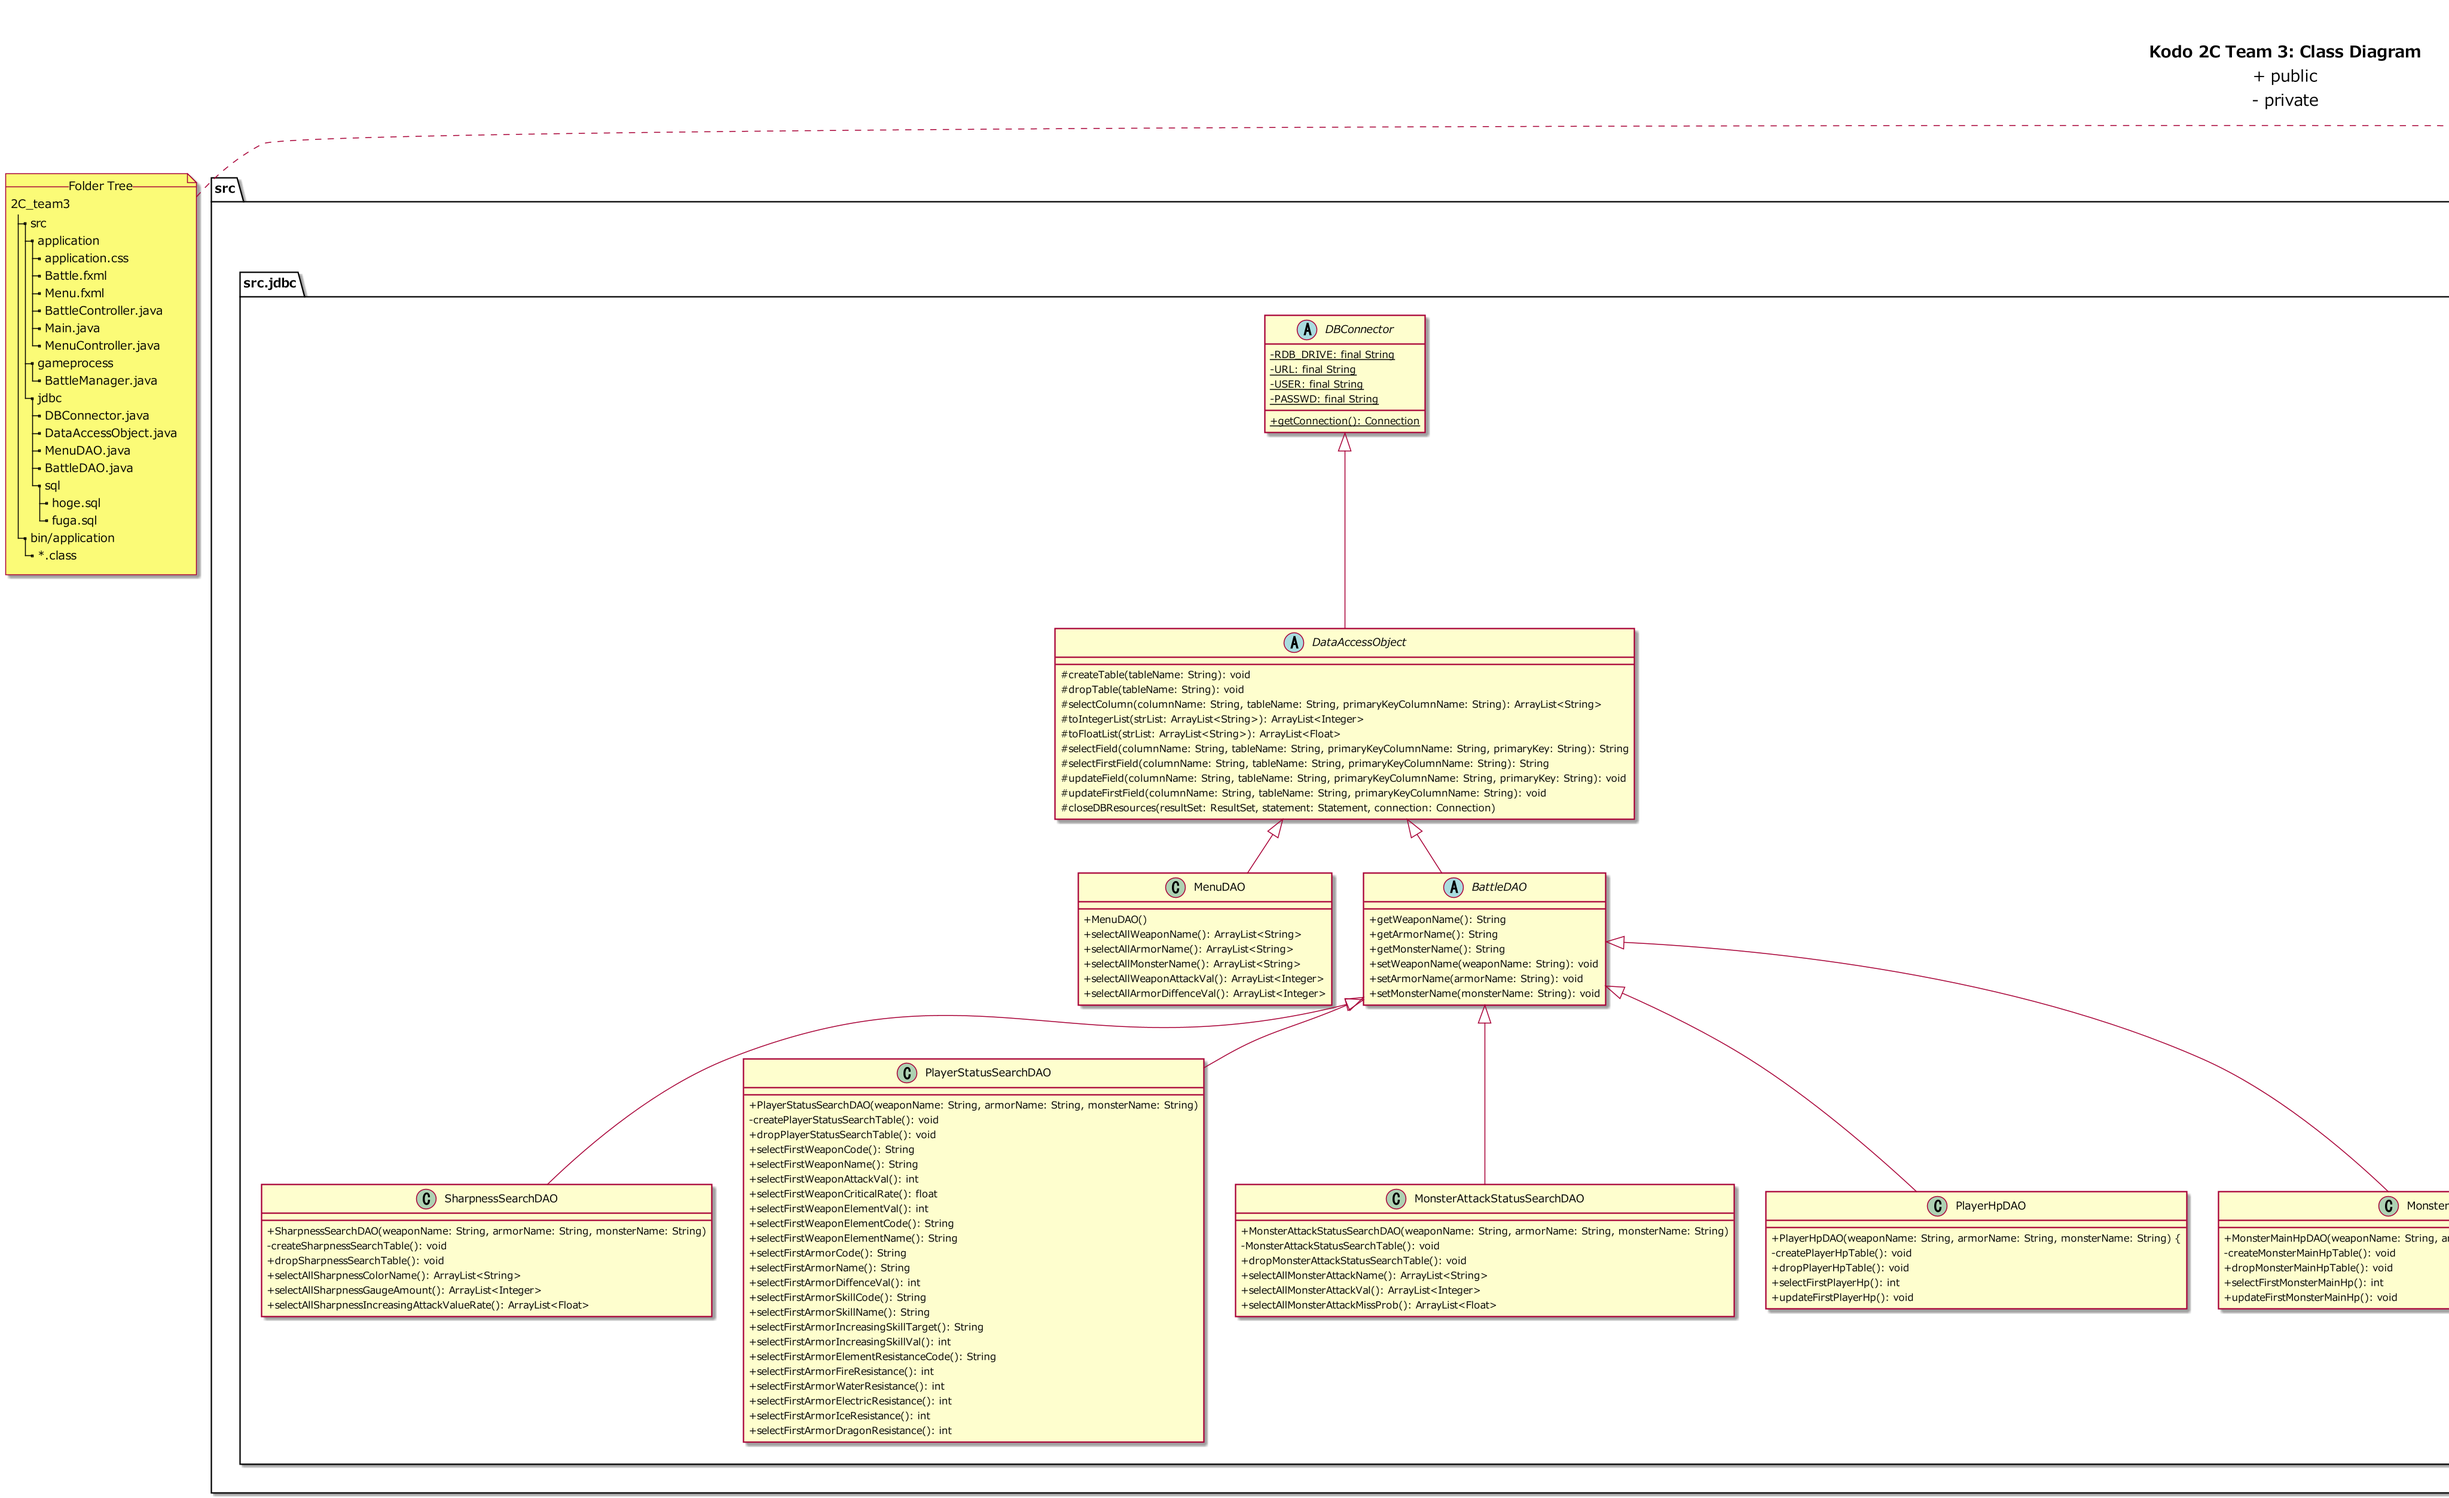
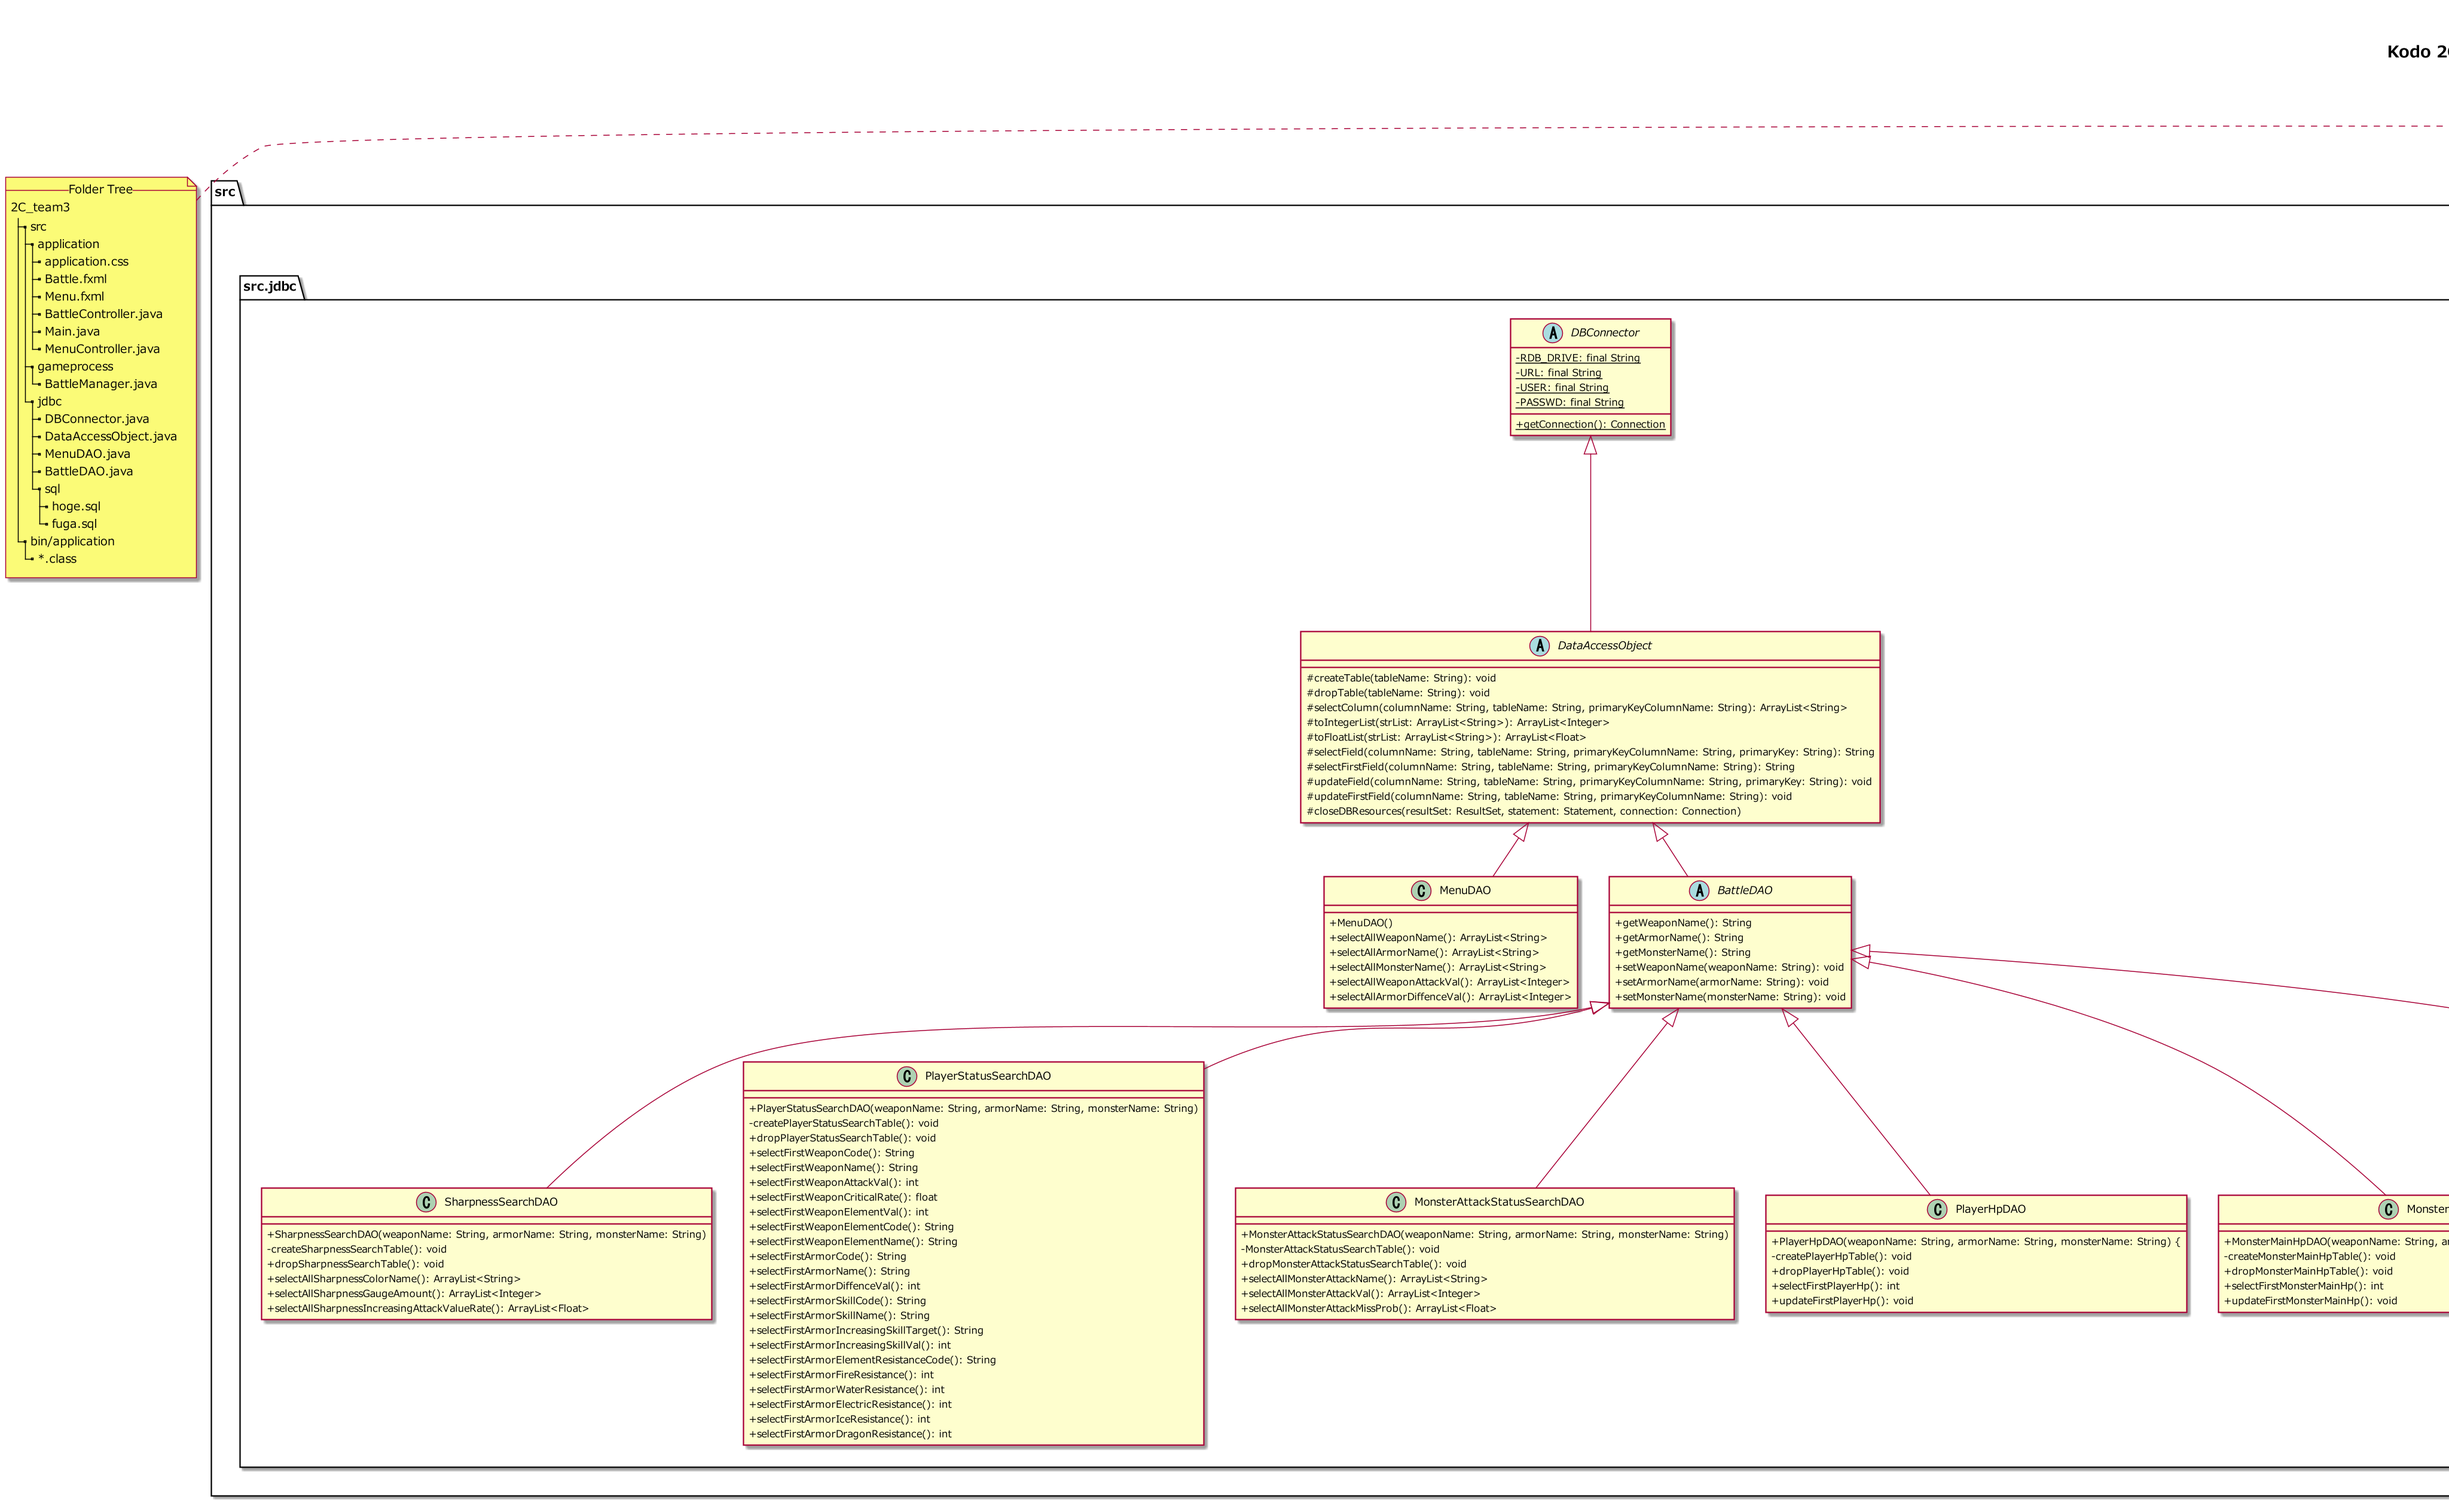
MonsterPartsHpDAOの仮組の完了

diff --git a/MonsterHunter/src/jdbc/MonsterPartsHpDAO.java b/MonsterHunter/src/jdbc/MonsterPartsHpDAO.java
@@ -3,15 +3,124 @@
 * @brief     「モンスター部位体力」テーブルのDAO
 * @note      高度情報演習2C 後半 木村教授担当分 Team3
 * @auther    AL18036 Kataoka Nagi
-* @date      2020-12-28 00:54:39
+* @date      2020-12-28 07:13:32
 * $Version   1.0
 * $Revision  1.0
-* @par       ADD: 新規作成
+* @par       追加：仮組の作成
 * @see       https://www.kenschool.jp/blog/?p=1644
 */
 
 package jdbc;
 
+import java.util.ArrayList;
+
+/**
+ * @class MonsterPartsHpDAO
+ * @brief 「モンスター部位体力」テーブルのDAO
+ */
 public class MonsterPartsHpDAO extends BattleDAO {
 
+  /**
+   * @fn MonsterPartsHpDAO
+   * @brief 「モンスター部位体力」テーブルの作成を行うコンストラクタ
+   */
+  public MonsterPartsHpDAO(String weaponName, String armorName, String monsterName) {
+    super(weaponName, armorName, monsterName);
+    createMonsterPartsHpTable();
+  }
+
+  /**
+   * @fn createMonsterPartsHpTable
+   * @brief 「モンスター部位体力」テーブルの作成
+   */
+  private void createMonsterPartsHpTable() {
+    // TODO
+  }
+
+  /**
+   * @fn dropMonsterPartsHpTable
+   * @brief 「モンスター部位体力」テーブルの削除
+   */
+  public void dropMonsterPartsHpTable() {
+    // TODO
+  }
+
+  //////////////////////////////////////////////////
+  // SELECT SELECT ALL
+  //////////////////////////////////////////////////
+
+  // /**
+  // * @fn selectAllMonsterPartsName
+  // * @brief 「モンスター部位体力」テーブルの、モンスター部位名カラムの全てのフィールドを返す
+  // * @return 全モンスター部位名のリスト
+  // */
+  // public ArrayList<String> selectAllMonsterPartsName() {
+  // String columnName = "monster_parts_name";
+  // String tableName = "monster_parts_hp_table";
+  // String primaryKeyColumnName = "monster_code";
+  // return selectColumn(columnName, tableName, primaryKeyColumnName);
+  // }
+
+  /**
+   * @fn selectAllMonsterPartsHp
+   * @brief 「モンスター部位体力」テーブルの、モンスター部位体力カラムの全てのフィールドを返す
+   * @return 全モンスター部位体力のリスト
+   */
+  public ArrayList<Integer> selectAllMonsterPartsHp() {
+    String columnName = "monster_parts_hp";
+    String tableName = "monster_parts_hp_table";
+    String primaryKeyColumnName = "monster_code";
+    return this.toIntegerList(selectColumn(columnName, tableName, primaryKeyColumnName)));
+  }
+
+  /**
+   * @fn selectAllMonsterPartsHardness
+   * @brief 「モンスター部位体力」テーブルの、モンスター部位肉質カラムの全てのフィールドを返す
+   * @return 全モンスター部位肉質のリスト
+   */
+  public ArrayList<Integer> selectAllMonsterPartsHardness() {
+    String columnName = "monster_parts_hardness";
+    String tableName = "monster_parts_hp_table";
+    String primaryKeyColumnName = "monster_code";
+    return this.toIntegerList((selectColumn(columnName, tableName, primaryKeyColumnName)));
+  }
+
+  //////////////////////////////////////////////////
+  // UPADATE
+  //////////////////////////////////////////////////
+
+  // /**
+  // * @fn updateMonsterPartsName
+  // * @brief 「モンスター部位体力」テーブルの、モンスター部位名カラムの先頭のフィールドを更新
+  // */
+  // public void updateMonsterPartsName(String monsterPartsName, String
+  // primaryKey) {
+  // String columnName = "monster_parts_name";
+  // String tableName = "monster_parts_hp_table";
+  // String primaryKeyColumnName = "monster_code";
+  // this.updateField(monsterPartsName, columnName, tableName,
+  // primaryKeyColumnName, primaryKey);
+  // }
+
+  /**
+   * @fn updateMonsterPartsHp
+   * @brief 「モンスター部位体力」テーブルの、モンスター部位体力カラムの先頭のフィールドを更新
+   */
+  public void updateMonsterPartsHp(int monsterPartsHp, String primaryKey) {
+    String columnName = "monster_parts_hp";
+    String tableName = "monster_parts_hp_table";
+    String primaryKeyColumnName = "monster_code";
+    this.updateField(Integer.toString(monsterPartsHp), columnName, tableName, primaryKeyColumnName, primaryKey);
+  }
+
+  /**
+   * @fn updateMonsterPartsHardness
+   * @brief 「モンスター部位体力」テーブルの、モンスター部位肉質カラムの先頭のフィールドを更新
+   */
+  public void updateMonsterPartsHardness(int monsterPartsHardness, String primaryKey) {
+    String columnName = "monster_parts_hardness";
+    String tableName = "monster_parts_hp_table";
+    String primaryKeyColumnName = "monster_code";
+    this.updateField(Integer.toString(monsterPartsHardness), columnName, tableName, primaryKeyColumnName, primaryKey);
+  }
 }

diff --git a/MonsterHunter/src/jdbc/DataAccessObject.java b/MonsterHunter/src/jdbc/DataAccessObject.java
@@ -160,7 +160,8 @@ abstract class DataAccessObject extends DBConnector {
    * @param[in] primaryKeyColumnName: 更新したいフィールドが存在するテーブルの主キーの名前
    * @param[in] primaryKey: 更新したいフィールドに対応する主キー
    */
-  protected void updateField(String columnName, String tableName, String primaryKeyColumnName, String primaryKey) {
+  protected void updateField(String field, String columnName, String tableName, String primaryKeyColumnName,
+      String primaryKey) {
     // TODO
   }
 
